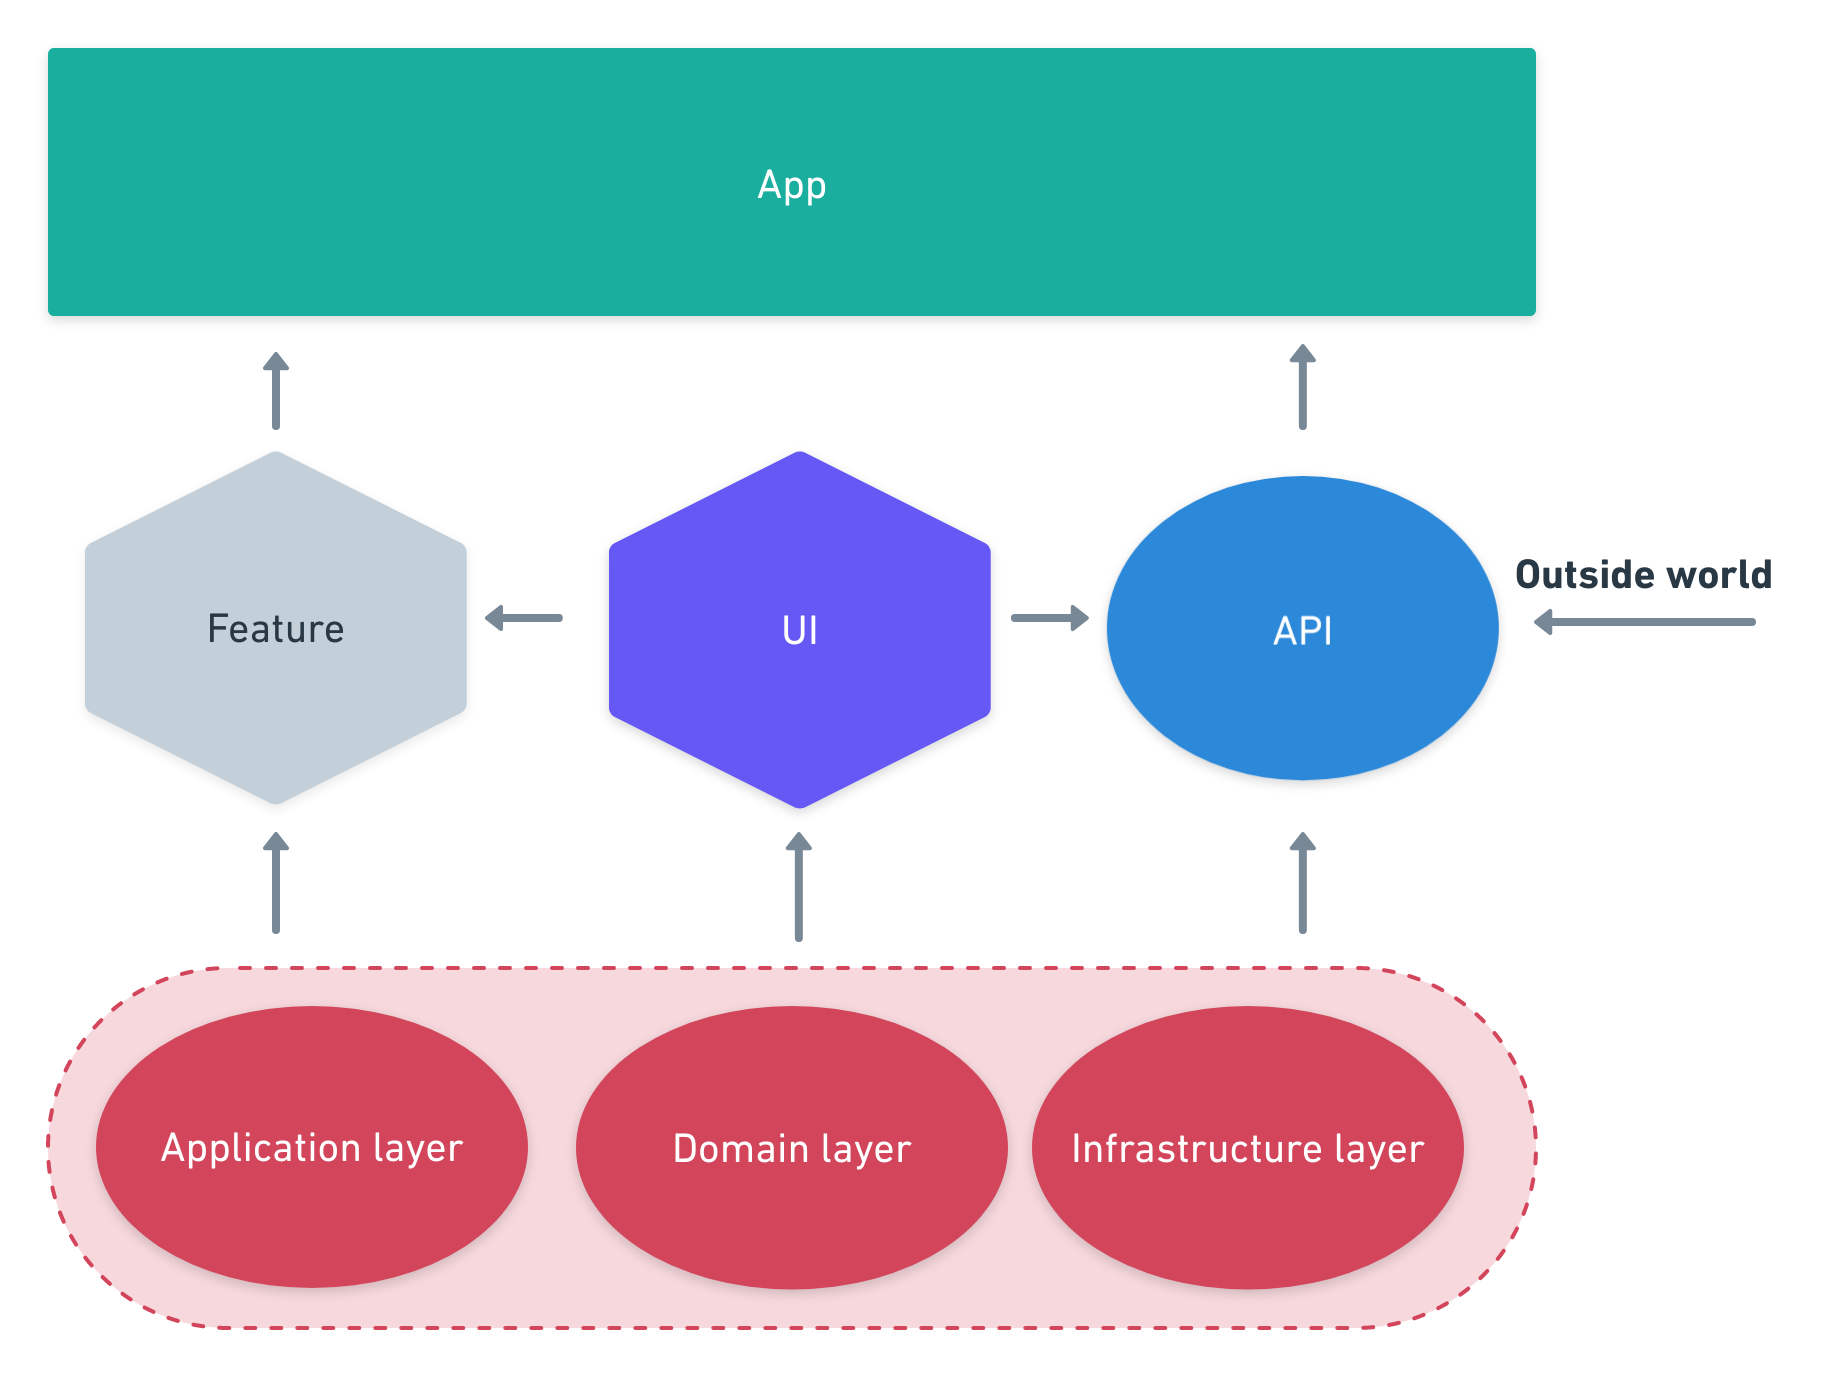
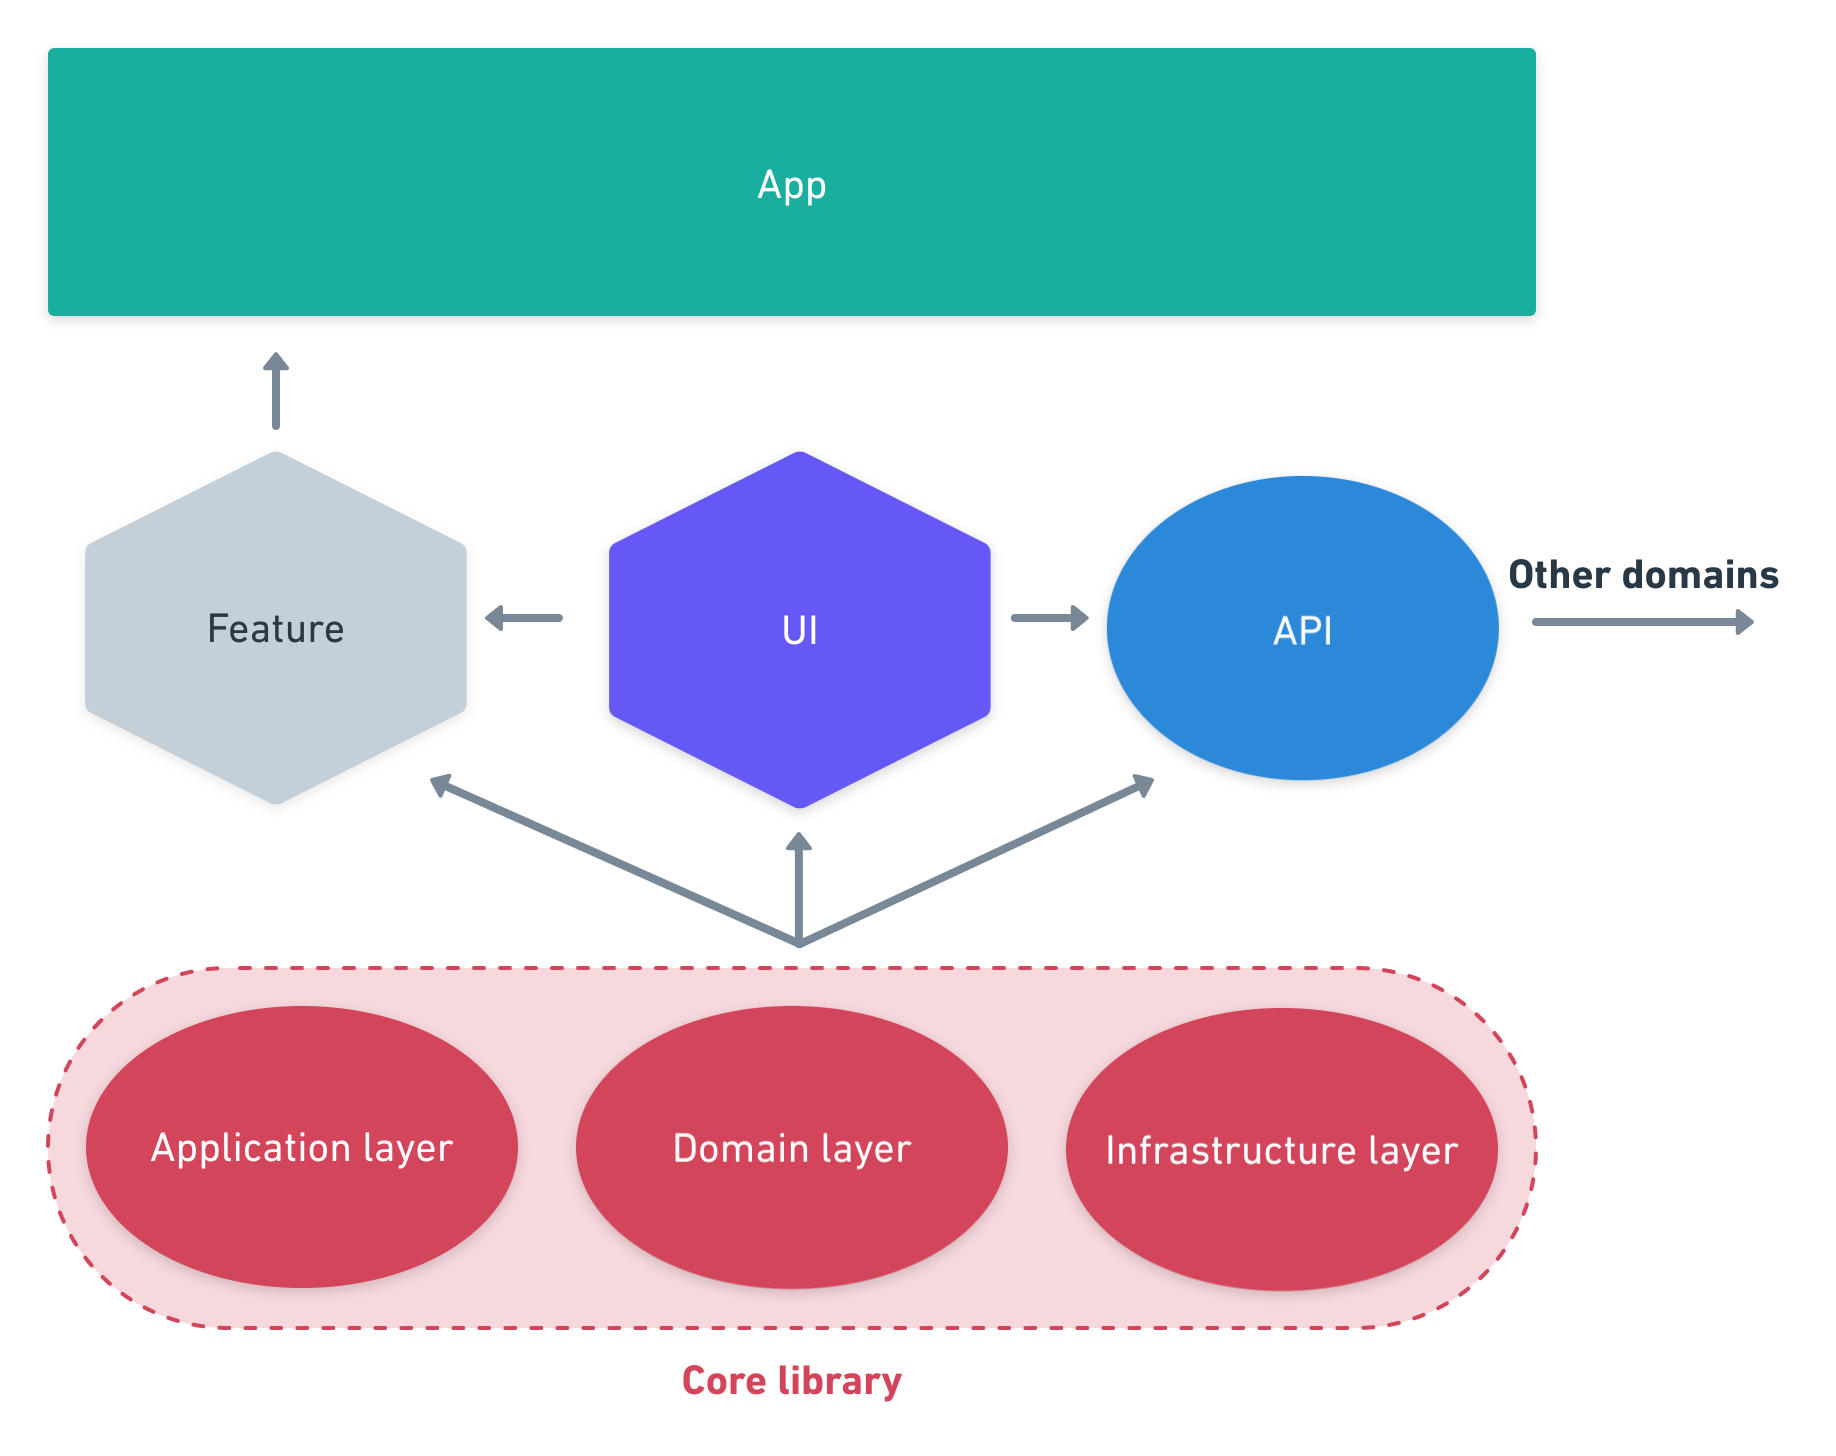
Add DDD blog post (wip)

diff --git a/content/blog/practical-client-side-ddd-using-angular-and-nx-monorepos/index.md b/content/blog/practical-client-side-ddd-using-angular-and-nx-monorepos/index.md
@@ -3,13 +3,13 @@ title: Practical client-side DDD using Angular and Nx monorepos
 date: '2020-05-08T00:00:00.000Z'
 ---
 
-> Disclaimer : this post is opinionated since everyone fails to clearly defines me how to implement DDD. Sometimes it's all about perspective.
+> Disclaimer : this post is opinionated since everyone fails to clearly defines the only way to implement DDD. Sometimes it's all about perspective.
 
 Some years ago I worked for the first time with Domain-Driven Design on back-end applications. We painfully discovered that **managing DDD architecture requires tools and shared knowledge** between team members.
 
 Today DDD is coming in the client-side application world and I recently started to work on project built with it, here are my thoughts.
 
-## Required toolbox
+## Required Toolbox
 
 The first thing that comes in mind with DDD is **domain definition and layers organization**. Here are tools needed in prior to achieve this :
 
@@ -18,7 +18,7 @@ The first thing that comes in mind with DDD is **domain definition and layers or
 
 Since DDD is about keeping a maintainable architecture over time, I strongly discourage you to start modeling your application without these tools configured in your project.
 
-## Code organization
+## Code Organization
 
 Most of the challenges are in code organization. The main goal is to **keep domains tightly coupled between each others**. This helps a lot to avoid spaghetti code and improve maintainability.
 
@@ -26,27 +26,39 @@ A domain is a logical piece in your software that reflect a reality. An order, a
 
 ![DDD code organization schema](./ddd.png)
 
-Note that each block is an **independent library**, expect the bottom line that is a single core library that holds all the domain logic.
+Note that each block is an **independent library**, expect the bottom line that is a single core library that holds all the domain logic including data-access, state management and core components.
 
-From our point of view it's better to stick domain, infrastructure and application layers together into a single domain library. It makes testing less complex and drastically reduce the boilerplate.
+From our point of view it's better to stick domain, infrastructure and application layers together into a single library. It makes testing less complex and drastically reduce the boilerplate.
 
-Most of the challenges are in a good domain definition. Trying to make domain agnostic from data access or state management is a waste of time.
+Most of the challenges are in a good domain definition. Trying to make a domain agnostic from data-access or state management is a waste of time.
 
-### Types of layers
+### Types of Layers
 
 A domain is separated in the following libraries :
 
-| Type    | Description                                             | Example          |
-| ------- | ------------------------------------------------------- | ---------------- |
-| UI      | A set of dumb reusable components.                      | `<product-item>` |
-| Feature | Single usage smart component.                           | `<catalog-page>` |
-| Core    | Domain code including data access and state management. | `ProductModel`   |
-| API     | Exposed code to the outside world.                      | `ProductModule`  |
+| Type    | Description                                                              | Example             |
+| ------- | ------------------------------------------------------------------------ | ------------------- |
+| API     | Exposed code to the outside world.                                       | `ProductModule`     |
+| Core    | Domain code including data-access, state management and core components. | `ProductRepository` |
+| Feature | A set of components for a particular use-case.                           | `<product-details>` |
+| UI      | A set of dumb reusable components.                                       | `<product>`         |
 
-### Access restriction rules
+### Access Restrictions
 
-For keeping layers tightly coupled we need [access restrictions](https://www.angulararchitects.io/aktuelles/sustainable-angular-architectures-2#check-accesses-to-libraries) between layers. These rules protect your domains from being involuntary coupled with something else.
+For keeping layers tightly coupled we use [access restrictions](https://www.angulararchitects.io/aktuelles/sustainable-angular-architectures-2#check-accesses-to-libraries) between layers. These rules protect your domains from being involuntary coupled with something else.
 
 Of course, we need to add interactions between domains. Obviously a cart has relations with products, but we will use an interface between them to establish a clear contract that reflect the use-cases.
 
-The main benefit is that **complexity will not grow exponentially over time**. The downside is that it starts with a relative complex organization from the beginning. That's why DDD should not be applied blindly.
+The main benefit is that complexity will not grow exponentially over time. The downside is that it starts with a relative complex organization from the beginning. That's why DDD should not be applied blindly.
+
+### SCAM in Addition
+
+[Single Component Angular Module](https://medium.com/marmicode/your-angular-module-is-a-scam-b4136ca3917b) is an architectural style where each component lives in a dedicated module.
+
+```ts
+export { ProductFormModule, ProductListModule, ProductModule };
+```
+
+Your libraries will be much more explicit on what's being imported and exported. To get rid of managing Angular modules : one component, one module. It also works for pipes and directives.
+
+## Taking Ideas from DDD
